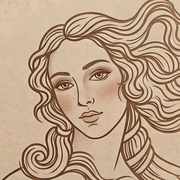
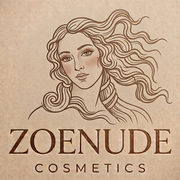
chore: update site metadata image
Replace the OG and Twitter share image with the latest branding asset.

diff --git a/src/pages/AboutPage.tsx b/src/pages/AboutPage.tsx
@@ -182,7 +182,7 @@ export const AboutPage: React.FC = () => {
               <div className="relative mx-auto max-w-sm sm:max-w-md">
                 <div className="rounded-3xl overflow-hidden border-2 border-[#E8DFD5] shadow-2xl bg-[#F5EDE2] p-2 group hover:shadow-3xl transition-shadow duration-500">
                   <img
-                    src="/assets/aistudio/Gemini_Generated_Image_t98fi1t98fi1t98f__1__ebb6a715.jpeg"
+                    src={`${import.meta.env.BASE_URL}assets/aistudio/image_3527ead4.png`}
                     alt="Zoe · Nude Cosmetics Embossed Insignia - Beautifully You. Naturally Free."
                     className="w-full h-auto object-cover rounded-2xl transition-transform duration-700 group-hover:scale-[1.02]"
                   />
@@ -370,7 +370,7 @@ export const AboutPage: React.FC = () => {
             <div className="relative">
               <div className="rounded-3xl overflow-hidden border border-[#E8DFD5] shadow-lg aspect-[4/5] bg-[#F2EDE4]">
                 <img
-                  src="/assets/aistudio/shell_logo.jpeg_040943c9_2K_2cad8f67.jpg"
+                  src={`${import.meta.env.BASE_URL}assets/aistudio/image_3527ead4.png`}
                   alt="Zoe · Nude Cosmetics Muse & Formulation Origins"
                   className="w-full h-full object-cover"
                 />

diff --git a/index.html b/index.html
@@ -8,9 +8,9 @@
     <meta property="og:title" content="Zoe – Nude Cosmetics | AI-Powered Bio-Cosmetology Lab" />
     <meta property="og:description" content="Where Artificial Intelligence Meets the Science of Beauty. R&D in Los Angeles & San Francisco. Feel free and comfortable in your own skin. Beautifully You. Naturally Free." />
     <meta property="og:type" content="website" />
-    <meta property="og:image" content="/assets/aistudio/Gemini_Generated_Image_bj462jbj462jbj46_fa1cb5df.jpeg" />
+    <meta property="og:image" content="./assets/aistudio/image_3527ead4.png" />
     <meta name="twitter:card" content="summary_large_image" />
-    <meta name="twitter:image" content="/assets/aistudio/Gemini_Generated_Image_bj462jbj462jbj46_fa1cb5df.jpeg" />
+    <meta name="twitter:image" content="./assets/aistudio/image_3527ead4.png" />
     <link rel="icon" type="image/png" sizes="32x32" href="./favicon-32x32.png" />
     <link rel="icon" type="image/png" sizes="16x16" href="./favicon-16x16.png" />
     <link rel="apple-touch-icon" sizes="180x180" href="./apple-touch-icon.png" />

diff --git a/src/pages/ComplexionStudioPage.tsx b/src/pages/ComplexionStudioPage.tsx
@@ -197,7 +197,7 @@ export const ComplexionStudioPage: React.FC<ComplexionStudioPageProps> = ({
       <div
         className="fixed inset-0 pointer-events-none -z-10 bg-cover bg-center opacity-[0.06] filter saturate-[1.25]"
         style={{
-          backgroundImage: "url('/assets/aistudio/shell_logo.jpeg_040943c9_2K_2cad8f67.jpg')",
+          backgroundImage: `url('${import.meta.env.BASE_URL}assets/aistudio/image_3527ead4.png')`,
         }}
       />
 
@@ -205,7 +205,7 @@ export const ComplexionStudioPage: React.FC<ComplexionStudioPageProps> = ({
       <section
         className="relative py-20 sm:py-28 border-b border-[#EADED5] overflow-hidden bg-cover bg-center bg-no-repeat"
         style={{
-          backgroundImage: "url('/assets/aistudio/shell_logo.jpeg_040943c9_2K_2cad8f67.jpg')",
+          backgroundImage: `url('${import.meta.env.BASE_URL}assets/aistudio/image_3527ead4.png')`,
         }}
       >
         {/* Editorial Ambient Scrim Overlay for optimal contrast and readability */}

diff --git a/src/components/HeroSection.tsx b/src/components/HeroSection.tsx
@@ -199,7 +199,7 @@ export const HeroSection: React.FC<HeroSectionProps> = ({
                 <div className="aspect-[16/11] sm:aspect-[4/3.8] lg:aspect-[4/4.2] w-full overflow-hidden bg-[#e8dfd5] relative">
                   {heroView === 'cover' ? (
                     <img
-                      src="/assets/aistudio/shell_logo.jpeg_040943c9_2K_2cad8f67.jpg"
+                      src={`${import.meta.env.BASE_URL}assets/aistudio/image_3527ead4.png`}
                       alt="ZOE · Nude Cosmetics Official Cover Art - Beauty, Without The Evidence"
                       className="w-full h-full object-cover object-center filter contrast-[1.02] transform hover:scale-[1.02] transition-transform duration-700"
                     />

diff --git a/src/components/ManifestoModal.tsx b/src/components/ManifestoModal.tsx
@@ -49,7 +49,7 @@ export const ManifestoModal: React.FC<ManifestoModalProps> = ({
           <div className="text-center space-y-3 pb-6 border-b border-[#E8DFD5]">
             <div className="max-w-md mx-auto rounded-2xl overflow-hidden border border-[#E8DFD5] shadow-md mb-3 bg-[#f5ede2]">
               <img
-                src="/assets/aistudio/shell_logo.jpeg_040943c9_2K_2cad8f67.jpg"
+                src={`${import.meta.env.BASE_URL}assets/aistudio/image_3527ead4.png`}
                 alt="ZOE · Nude Cosmetics Cover Art & Crest"
                 className="w-full h-auto object-cover"
               />

diff --git a/src/pages/ManifestoPage.tsx b/src/pages/ManifestoPage.tsx
@@ -41,7 +41,7 @@ export const ManifestoPage: React.FC = () => {
           <div className="pt-6 max-w-md mx-auto">
             <div className="rounded-2xl overflow-hidden border border-[#E8DFD5] shadow-sm bg-[#f5ede2]">
               <img
-                src="/assets/aistudio/shell_logo.jpeg_040943c9_2K_2cad8f67.jpg"
+                src={`${import.meta.env.BASE_URL}assets/aistudio/image_3527ead4.png`}
                 alt="ZOE · Nude Cosmetics Brand Crest"
                 className="w-full h-auto object-cover"
               />
